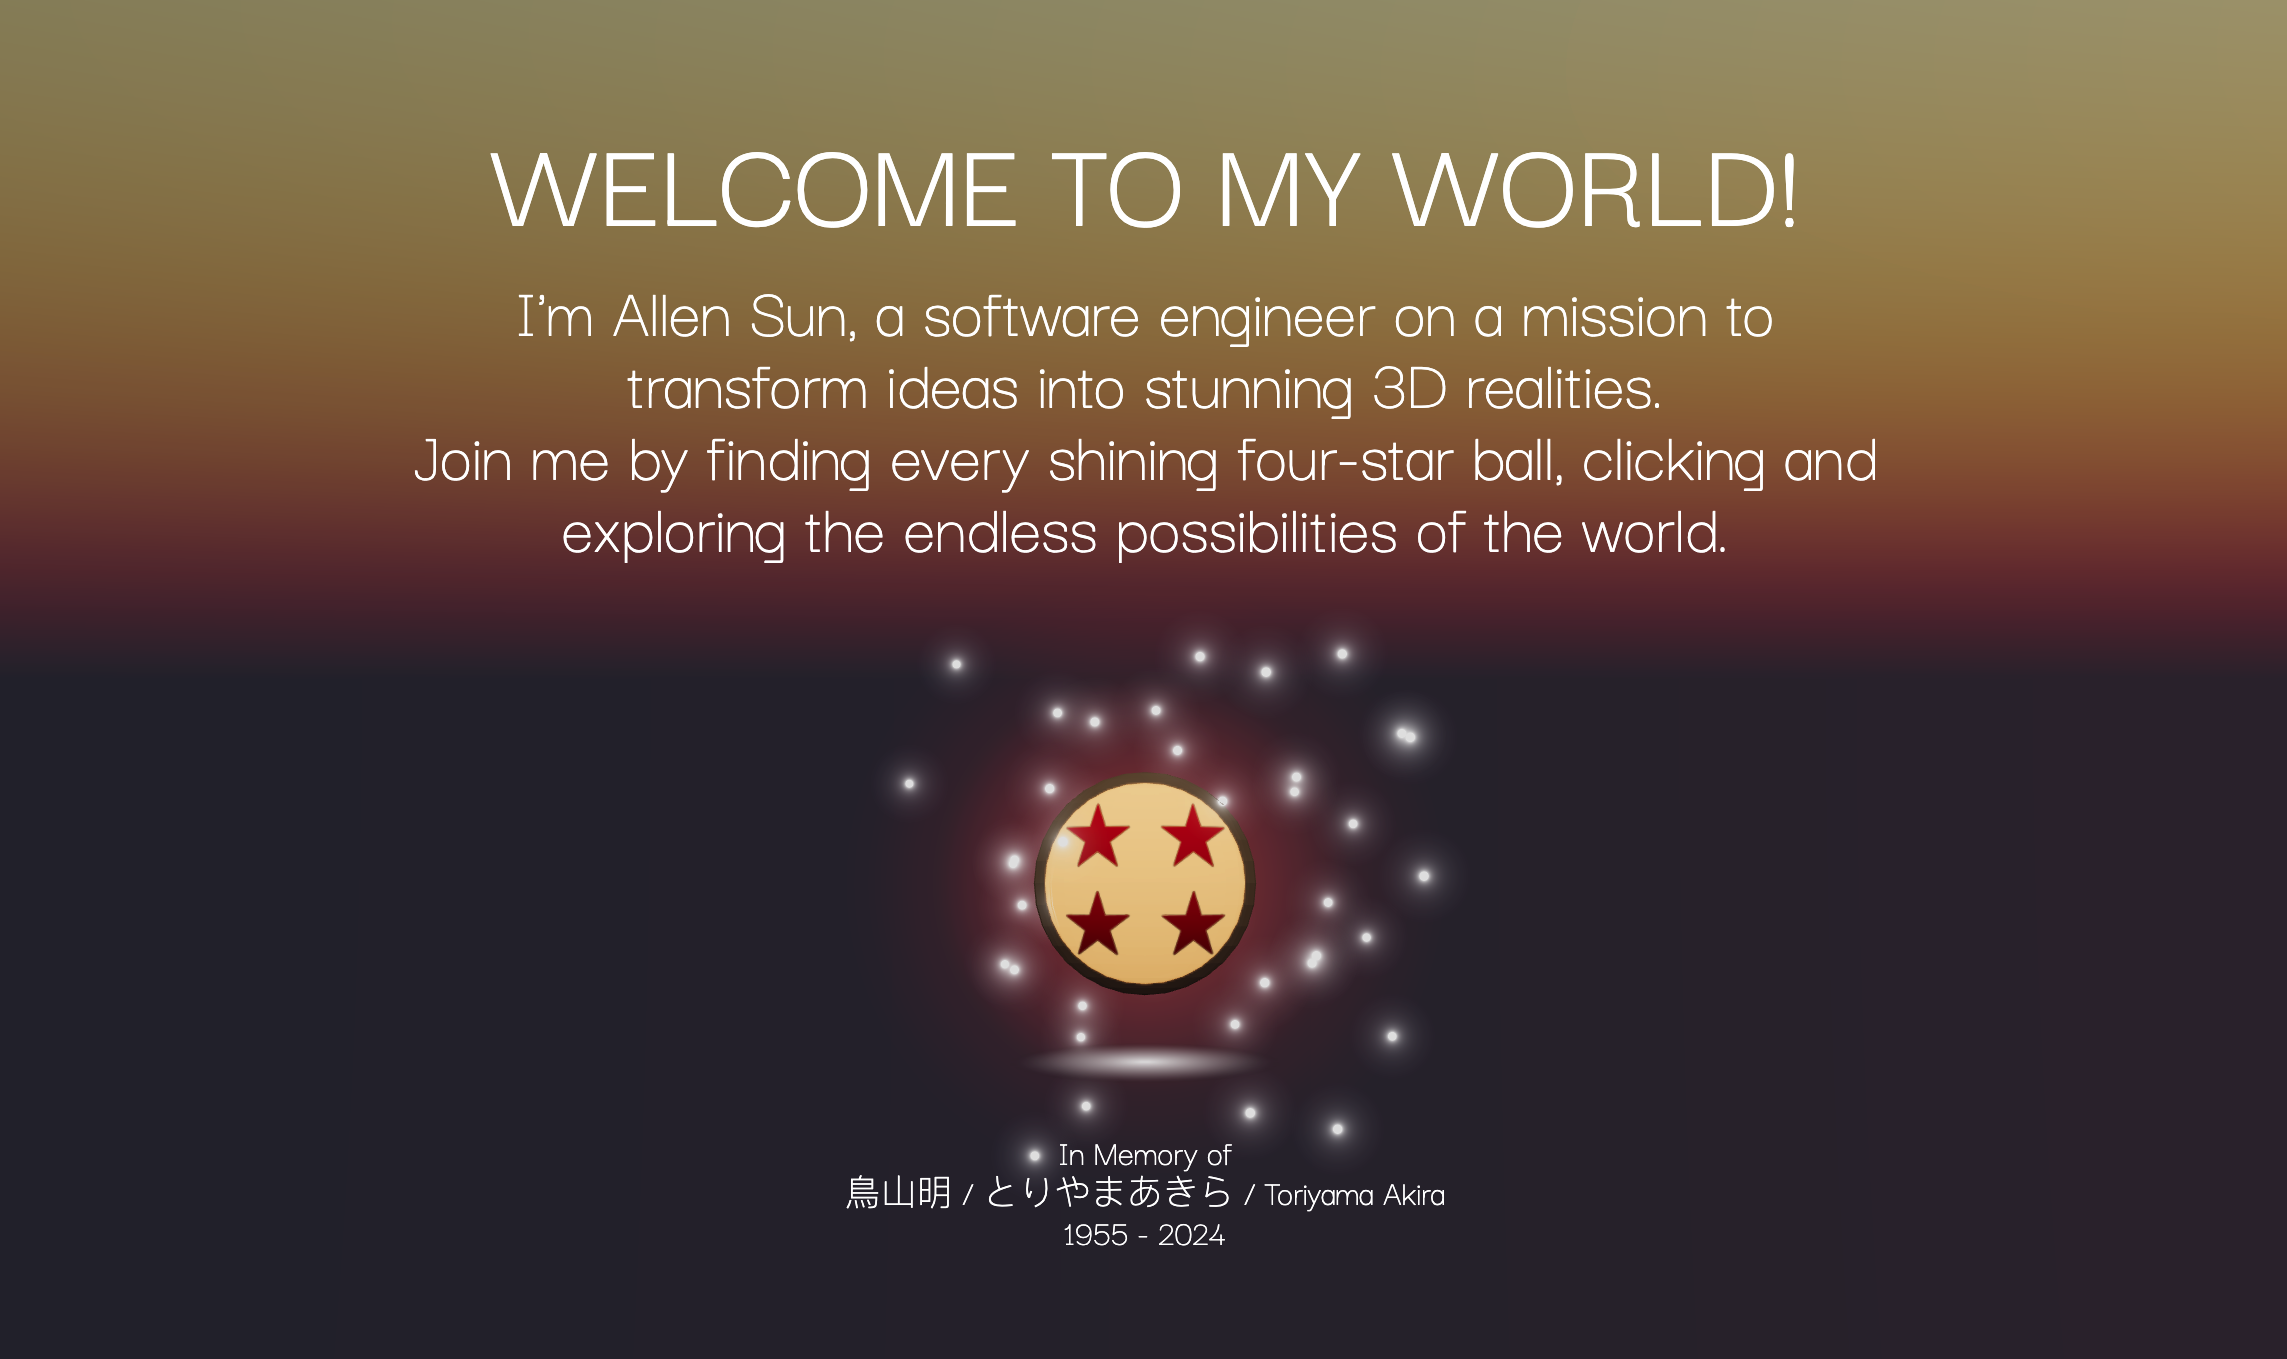
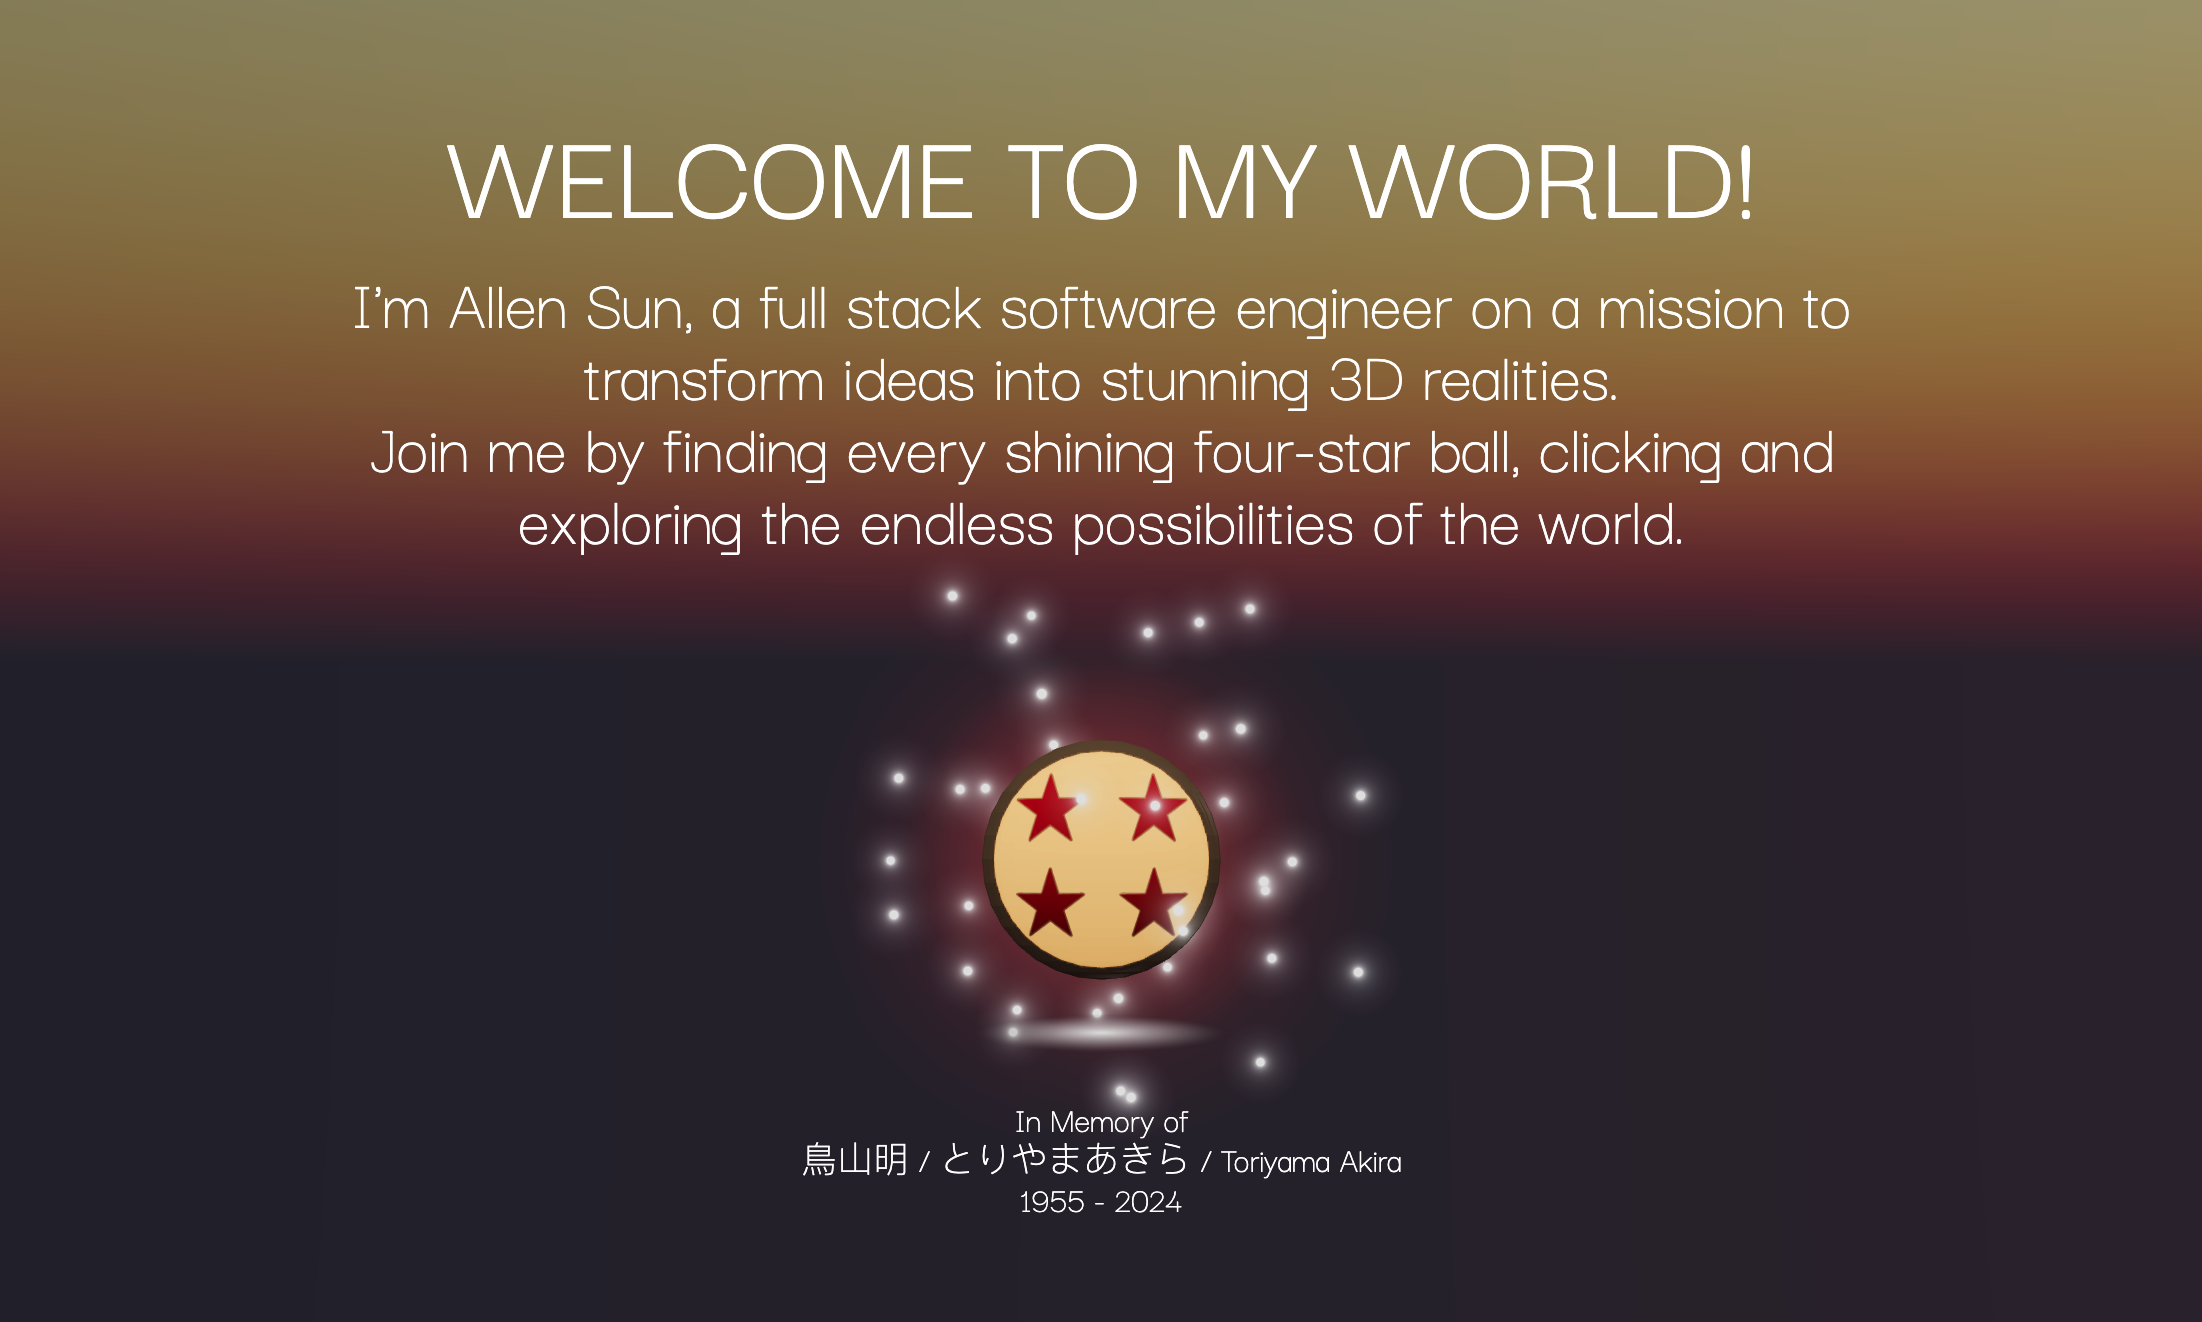
tweak readme and extract text from welcome

diff --git a/src/components/welcome/WelcomeWorld.jsx b/src/components/welcome/WelcomeWorld.jsx
@@ -1,23 +1,21 @@
+import { bottomBannerText } from '@/constants/text';
+
 export default function WelcomeWorld() {
   return (
     <>
       <div className='z-10 fixed top-0 left-0 overflow-hidden flex flex-col justify-center items-center w-full h-1/2'>
         <div className='max-w-screen-2xl flex flex-col justify-center items-center space-y-2 md:space-y-8 px-3'>
           <p className='text-white text-3xl sm:text-4xl md:text-7xl xl:text-9xl text-center whitespace-pre-line'>
-            WELCOME TO MY WORLD!
+            {bottomBannerText.welcome.welcomeToMyWorld}
           </p>
           <p className='text-white text-2xl sm:text-3xl md:text-5xl xl:text-7xl text-center font-light whitespace-pre-line'>
-            {
-              "I'm Allen Sun, a software engineer on a mission to transform ideas into stunning 3D realities.\nJoin me by finding every shining four-star ball, clicking and exploring the endless possibilities of the world."
-            }
+            {bottomBannerText.welcome.introduction}
           </p>
         </div>
       </div>
       <div className='z-10 fixed bottom-0 left-0 overflow-hidden flex flex-col justify-center items-center w-full h-1/5 md:h-1/4 space-y-5'>
         <p className='text-white text-lg sm:text-xl md:text-2xl xl:text-4xl text-center font-extralight whitespace-pre-line leading:none md:leading-normal'>
-          {
-            'In Memory of\n鳥山明 / とりやまあきら / Toriyama Akira\n1955 - 2024'
-          }
+          {bottomBannerText.welcome.memory}
         </p>
       </div>
     </>

diff --git a/src/constants/text.js b/src/constants/text.js
@@ -1,4 +1,11 @@
 export const bottomBannerText = Object.freeze({
+  welcome: {
+    welcomeToMyWorld: 'WELCOME TO MY WORLD!',
+    introduction:
+      "I'm Allen Sun, a full stack software engineer on a mission to transform ideas into stunning 3D realities.\nJoin me by finding every shining four-star ball, clicking and exploring the endless possibilities of the world.",
+    memory:
+      'In Memory of\n鳥山明 / とりやまあきら / Toriyama Akira\n1955 - 2024',
+  },
   experience: {
     offer: 'Would you like to offer me a job?',
     getInTouch: 'Get in touch',

diff --git a/README.md b/README.md
@@ -11,7 +11,7 @@
 <p align="center"> 
   <samp>
     <br>
-    「 I'm Allen Sun, a software engineer on a mission to transform ideas into stunning 3D realities. 」
+    「 I'm Allen Sun, a full stack software engineer on a mission to transform ideas into stunning 3D realities. 」
     <br>
     <br>
   </samp>
@@ -19,10 +19,10 @@
 
 <p align="center">
  <a href="https://allensunworld.com" target="blank">
-  <img src="https://img.shields.io/badge/Website-DC143C?style=for-the-badge&logo=medium&logoColor=white" alt="allensunworld" />
[1 lines of base64/hex data omitted]
  </a>
  <a href="https://linkedin.com/in/allensun623" target="_blank">
-  <img src="https://img.shields.io/badge/LinkedIn-0077B5?style=for-the-badge&logo=linkedin&logoColor=white" alt="allensun623"/>
+  <img src="https://img.shields.io/badge/LinkedIn-1768bf?style=for-the-badge&logo=linkedin&logoColor=white" alt="allensun623"/>
  </a>
 </p>
 <br />
@@ -31,11 +31,11 @@
  # About me
  
 <p>
- <img align="right" width="350" src="/gif/hello.gif" alt="Hello gif" />
+ <img align="right" width="250" src="/gif/hello.gif" alt="Hello gif" />
   🚀 &emsp; Passionate about exploring new technologies and trends to stay ahead in the tech landscape. <br/><br/>
   🎨 &emsp; Enthusiast for creating intuitive UI/UX<br/><br/>
   🏞 &emsp; When I'm not coding, you can find me hiking and exploring nature's beauty.<br/><br/>
-  🌐 &emsp; Visit my website or reach out via email at allensun623@gmail.com to discuss anything tech or collaboration opportunities!<br/><br/>
+  🌐 &emsp; Reach out via email at allensun623@gmail.com to discuss anything tech or collaboration opportunities!<br/><br/>
 </p>
 
 <br/>
@@ -82,10 +82,10 @@
 [![HTML][HTML]][HTML-url]
 [![CSS3][CSS3]][CSS3-url]
 [![Tailwind][Tailwind]][Tailwind-url]
+[![Framer-motion][Framer-motion]][Framer-motion-url]
 [![Threejs][Threejs]][Threejs-url]
 [![Drei][Drei]][Drei-url]
 [![React-three-fiber][React-three-fiber]][React-three-fiber-url]
-[![Framer-motion][Framer-motion]][Framer-motion-url]
 [![GSAP][GSAP]][GSAP-url]
 [![Formspree][Formspree]][Formspree-url]
 [![Vite][Vite]][Vite-url]
@@ -148,28 +148,11 @@ Tutorials and Open Sources acknowledged
 
 
 <!-- MARKDOWN LINKS & IMAGES -->
-<!-- https://www.markdownguide.org/basic-syntax/#reference-style-links -->
-<!-- [contributors-shield]: https://img.shields.io/github/contributors/othneildrew/Best-README-Template.svg?style=for-the-badge
-[contributors-url]: https://github.com/othneildrew/Best-README-Template/graphs/contributors
-[forks-shield]: https://img.shields.io/github/forks/othneildrew/Best-README-Template.svg?style=for-the-badge
-[forks-url]: https://github.com/othneildrew/Best-README-Template/network/members
-[stars-shield]: https://img.shields.io/github/stars/othneildrew/Best-README-Template.svg?style=for-the-badge
-[stars-url]: https://github.com/othneildrew/Best-README-Template/stargazers
-[issues-shield]: https://img.shields.io/github/issues/othneildrew/Best-README-Template.svg?style=for-the-badge
-[issues-url]: https://github.com/othneildrew/Best-README-Template/issues
-[license-shield]: https://img.shields.io/github/license/othneildrew/Best-README-Template.svg?style=for-the-badge
-[license-url]: https://github.com/othneildrew/Best-README-Template/blob/master/LICENSE.txt
-[linkedin-shield]: https://img.shields.io/badge/-LinkedIn-black.svg?style=for-the-badge&logo=linkedin&colorB=555
-[linkedin-url]: https://linkedin.com/in/othneildrew
-[Next.js]: https://img.shields.io/badge/next.js-000000?style=for-the-badge&logo=nextdotjs&logoColor=white
-[Next-url]: https://nextjs.org/
-[React.js]: https://img.shields.io/badge/React-20232A?style=for-the-badge&logo=react&logoColor=61DAFB
-[React-url]: https://reactjs.org/ -->
-
 <!-- Other Images -->
 [product-welcome]: images/welcome.png
[1 lines of base64/hex data omitted]
 
-<!-- Tech Badges -->
+<!-- Tech Badges (Images & Links) -->
 [Javascript]: https://img.shields.io/badge/Javascript-F0DB4F?style=for-the-badge&logo=javascript&logoColor=black
 [Javascript-url]: https://www.javascript.com/
 [React]: https://img.shields.io/badge/-React-61DBFB?style=for-the-badge&logo=react&logoColor=black
@@ -182,11 +165,11 @@ Tutorials and Open Sources acknowledged
 [CSS3-url]: https://www.w3.org/Style/CSS/Overview.en.html
 [Tailwind]: https://img.shields.io/badge/Tailwind_CSS-06B6D4?style=for-the-badge&logo=tailwindcss&logoColor=white
 [Tailwind-url]: https://tailwindcss.com/
-[Threejs]: https://img.shields.io/badge/Three.js-000000?style=for-the-badge&logo=three.js&logoColor=white
+[Threejs]: https://img.shields.io/badge/Three.js-f8f8f8?style=for-the-badge&logo=three.js&logoColor=black
 [Threejs-url]: https://threejs.org/
-[Drei]: https://img.shields.io/badge/Drei-000000?style=for-the-badge&logo=pmndrs&logoColor=white
[1 lines of base64/hex data omitted]
 [Drei-url]: https://github.com/pmndrs/drei
-[React-three-fiber]: https://img.shields.io/badge/React_three_fiber-000000?style=for-the-badge&logo=r3f&logoColor=white
[1 lines of base64/hex data omitted]
 [React-three-fiber-url]: https://docs.pmnd.rs/react-three-fiber
 [Framer-motion]: https://img.shields.io/badge/Framer_motion-000000?style=for-the-badge&logo=framer&logoColor=white
 [Framer-motion-url]: https://www.framer.com/motion/
